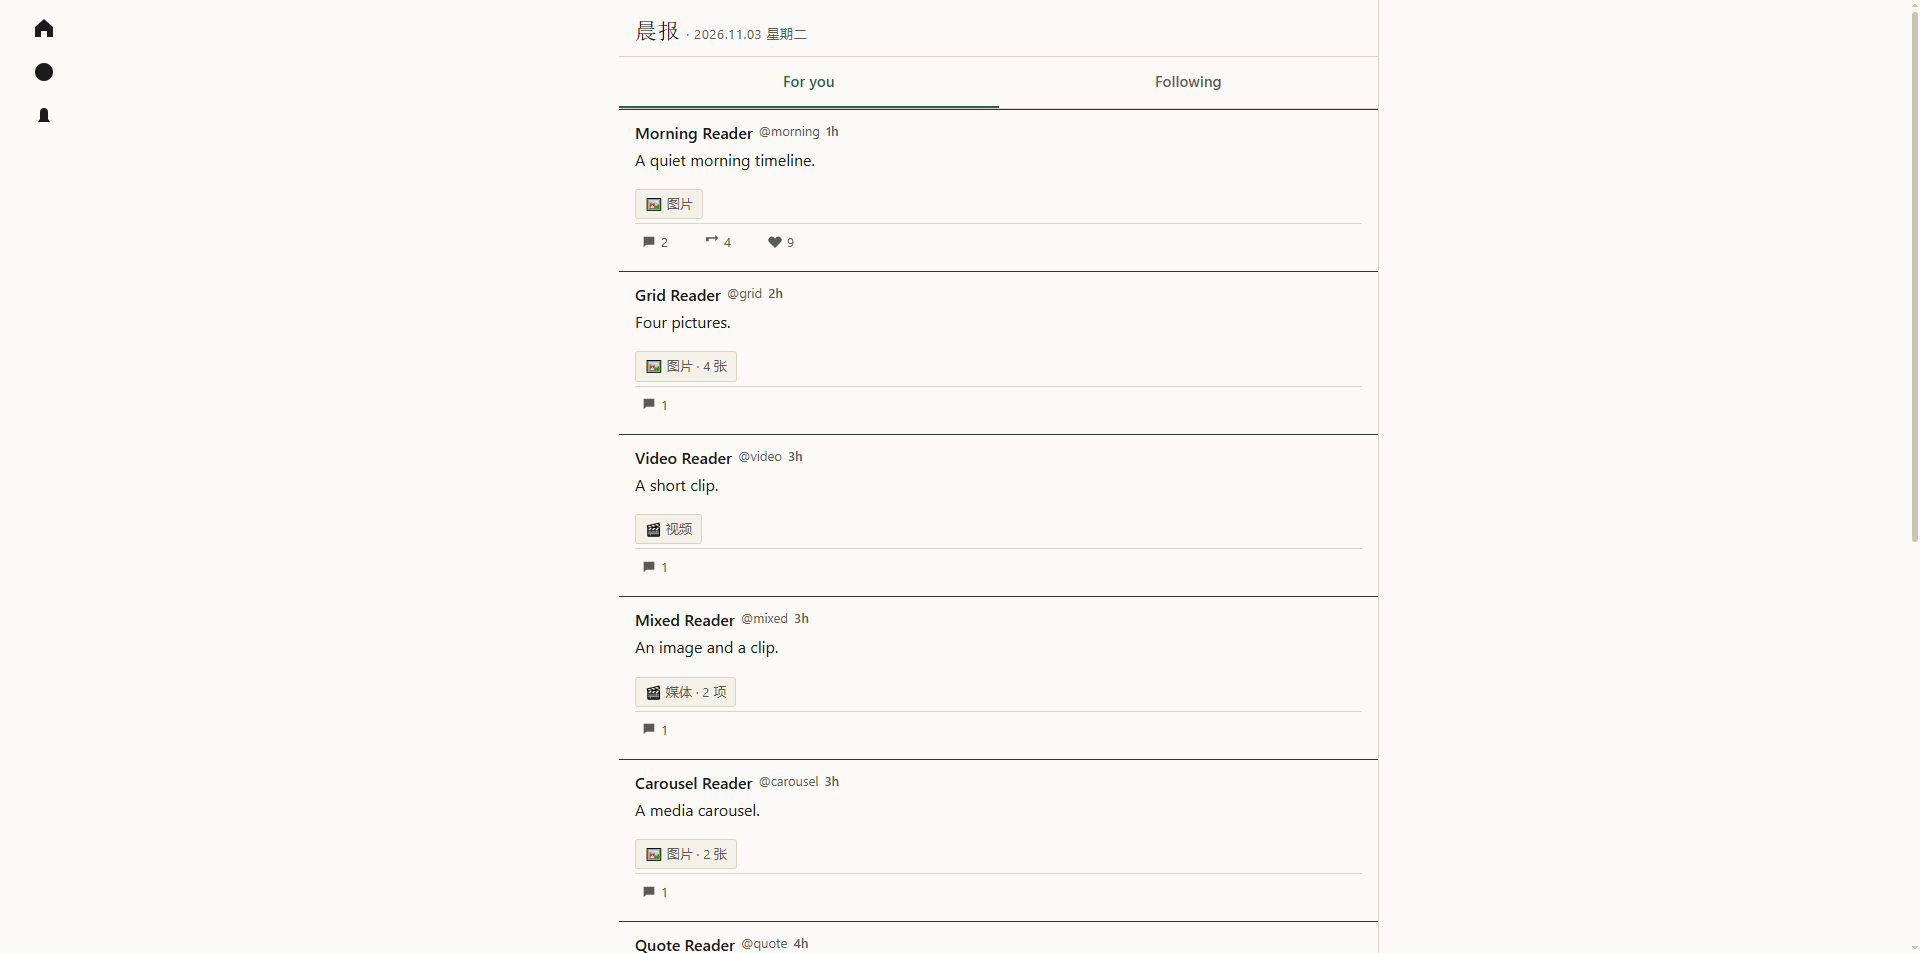
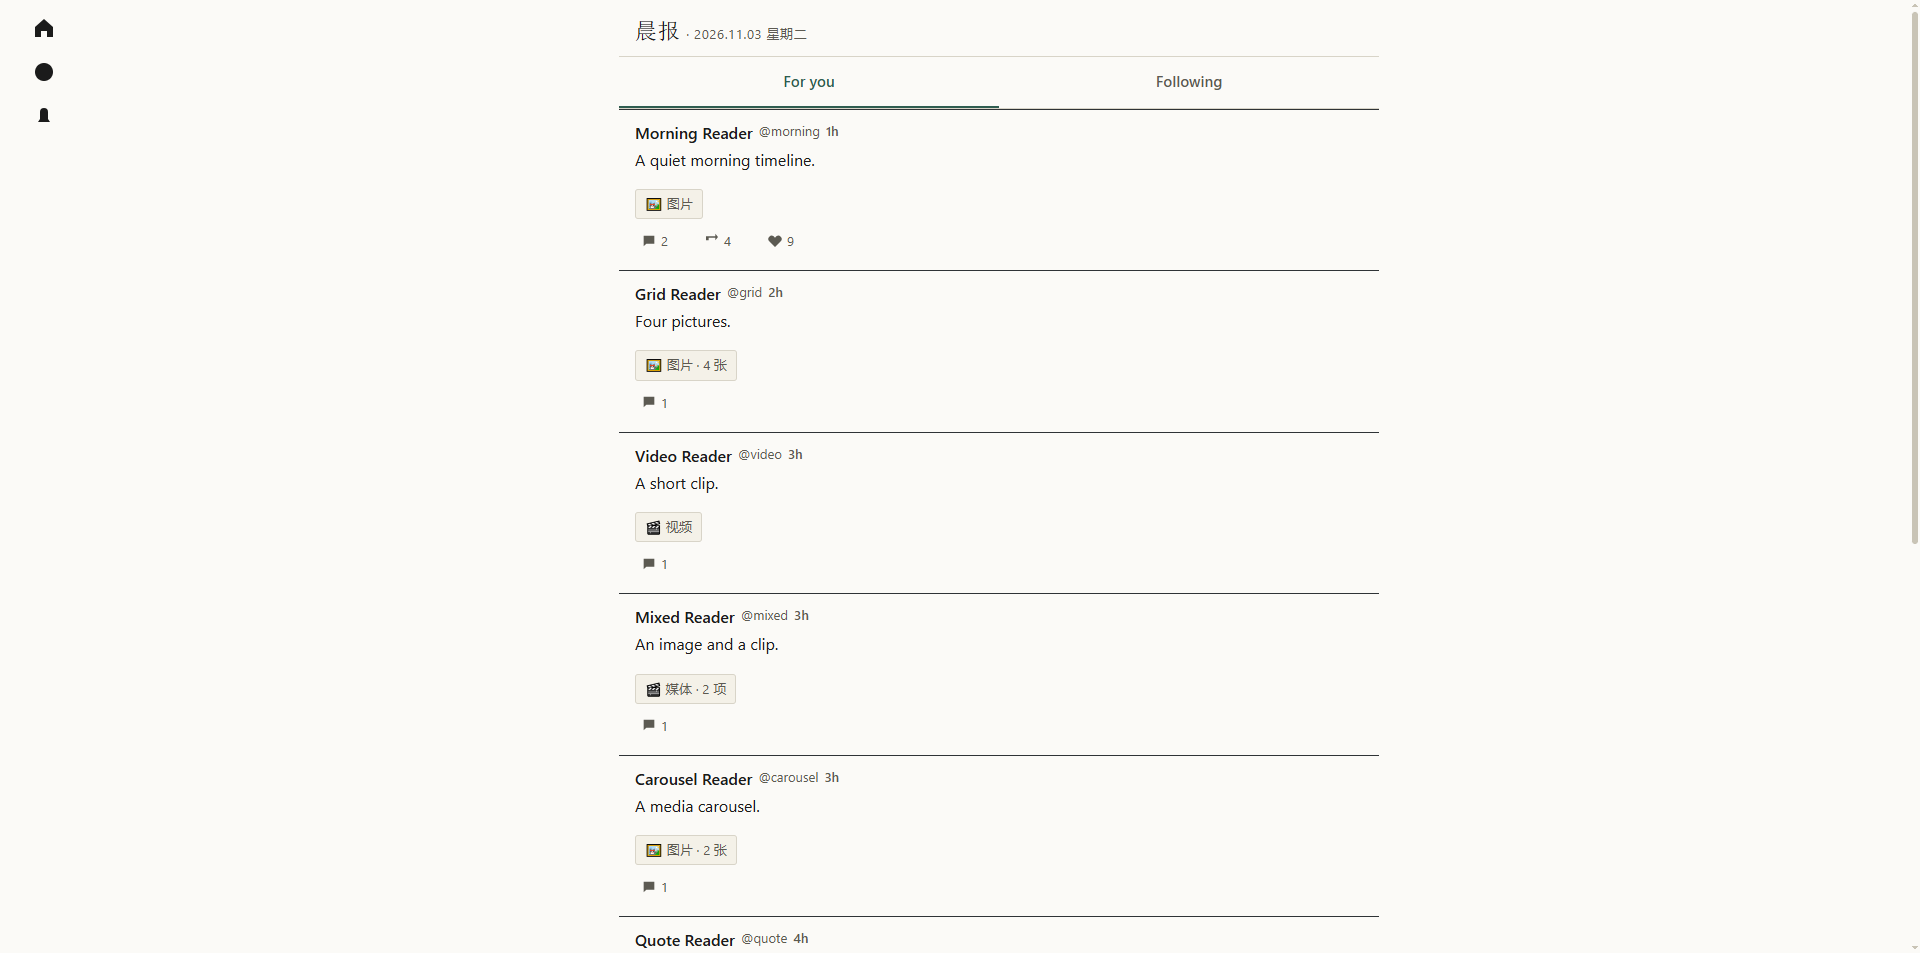
fix: polish timeline chrome, quote media and notifications
- remove column side borders, avatar rings and the action-bar divider
- soften post dividers and thread connector lines to the warm rule color
- fold quoted media and quoted card media; prefer a tweet's own media
- make the new-posts pill compact and recolor toasts to the paper surface

diff --git a/x-morning-paper.user.js b/x-morning-paper.user.js
@@ -37,6 +37,7 @@
       --xmp-ink: #1B1B1B;
       --xmp-ink-secondary: #5C5A52;
       --xmp-hairline: #D8D4C8;
+      --xmp-rule: #E6E1D5;
       --xmp-pine: #2F5D50;
       --xmp-pine-deep: #264C42;
       --xmp-pine-soft: #E6ECE7;
@@ -70,6 +71,19 @@
     html[data-xmp-enabled="1"] [data-testid="sidebarColumn"] {
       background-color: var(--xmp-paper) !important;
       border-color: var(--xmp-hairline) !important;
+    }
+
+    html[data-xmp-enabled="1"] [data-testid="primaryColumn"] {
+      border-left: 0 !important;
+      border-right: 0 !important;
+    }
+
+    html[data-xmp-enabled="1"] [data-testid^="UserAvatar-Container"] div,
+    html[data-xmp-enabled="1"] [data-testid^="UserAvatar-Container"] img,
+    html[data-xmp-enabled="1"] [data-testid="Tweet-User-Avatar"] div,
+    html[data-xmp-enabled="1"] [data-testid="Tweet-User-Avatar"] img {
+      background-color: transparent !important;
+      box-shadow: none !important;
     }
 
     html[data-xmp-enabled="1"] [data-testid="tweetText"],
@@ -122,7 +136,6 @@
 
     html[data-xmp-enabled="1"] [role="group"] {
       color: var(--xmp-ink-secondary) !important;
-      border-top: 1px solid var(--xmp-hairline) !important;
       padding-bottom: 8px !important;
     }
 
@@ -219,14 +232,22 @@
       background-color: var(--xmp-pine) !important;
     }
 
-    [data-xmp-tabbar] [role="status"] button {
+    html[data-xmp-enabled="1"] [role="status"][data-keep-composer-open] button {
       background-color: var(--xmp-pine) !important;
       color: var(--xmp-paper) !important;
+      width: auto !important;
+      min-width: 0 !important;
+      justify-content: center !important;
     }
 
-    [data-xmp-tabbar] [role="status"] button * {
+    html[data-xmp-enabled="1"] [role="status"][data-keep-composer-open] button * {
       color: var(--xmp-paper) !important;
       fill: var(--xmp-paper) !important;
+    }
+
+    html[data-xmp-enabled="1"] [role="status"][data-keep-composer-open] button > div {
+      gap: 6px !important;
+      justify-content: center !important;
     }
 
     [data-xmp-composer] {
@@ -333,8 +354,37 @@
       fill: var(--xmp-ink) !important;
     }
 
+    html[data-xmp-enabled="1"] [data-testid="cellInnerDiv"] > div {
+      border-bottom-color: var(--xmp-rule) !important;
+    }
+
+    html[data-xmp-enabled="1"] [data-testid="cellInnerDiv"] [data-testid="Tweet-User-Avatar"] ~ div:last-child {
+      background-color: var(--xmp-rule) !important;
+      border-radius: 1px !important;
+    }
+
     [data-xmp-divider] {
       background-color: transparent !important;
+    }
+
+    html[data-xmp-enabled="1"] [data-testid="toast"] {
+      background-color: var(--xmp-paper-raised) !important;
+      color: var(--xmp-ink) !important;
+      border: 1px solid var(--xmp-hairline) !important;
+      box-shadow: 0 2px 8px rgba(27, 27, 27, 0.08) !important;
+    }
+
+    html[data-xmp-enabled="1"] [data-testid="toast"] * {
+      color: var(--xmp-ink) !important;
+    }
+
+    html[data-xmp-enabled="1"] [data-testid="toast"] svg {
+      color: var(--xmp-ink) !important;
+      fill: var(--xmp-ink) !important;
+    }
+
+    html[data-xmp-enabled="1"] [data-testid="toast"] a {
+      color: var(--xmp-pine) !important;
     }
 
     html[data-xmp-enabled="1"] [data-xmp-tabbar] [data-testid="ScrollSnap-prevButtonWrapper"] button,
@@ -369,7 +419,7 @@
       border-color: var(--xmp-pine-deep) !important;
     }
 
-    html[data-xmp-enabled="1"] [data-xmp-tabbar] [role="status"] button:hover {
+    html[data-xmp-enabled="1"] [role="status"][data-keep-composer-open] button:hover {
       background-color: var(--xmp-pine-deep) !important;
     }
 
@@ -1101,12 +1151,32 @@
 
   function collectMedia(tweet) {
     return [...tweet.querySelectorAll(MEDIA_SELECTOR)].filter(element => {
-      if (element.closest('[data-testid="card.wrapper"]')) return false;
       if (element.closest(TWEET) !== tweet) return false;
+      if (element.closest('[data-testid="card.wrapper"]') && !isQuoteMedia(tweet, element)) return false;
       if (element.getAttribute('data-testid') === 'tweetPhoto' &&
           element.closest('[data-testid="previewInterstitial"]')) return false;
       return true;
     });
+  }
+
+  function isQuoteMedia(tweet, element) {
+    let node = element.parentElement;
+    while (node && node !== tweet) {
+      if (node.getAttribute('role') === 'link' &&
+          node.querySelector('[data-testid="User-Name"]') &&
+          node.querySelector('[data-testid="tweetText"]')) {
+        return true;
+      }
+      node = node.parentElement;
+    }
+    return false;
+  }
+
+  // Collapse the tweet's own media first. Quoted media is only promoted when
+  // the tweet itself carries no media, so a quote's image can also be folded.
+  function selectMedia(tweet, media) {
+    const own = media.filter(element => !isQuoteMedia(tweet, element));
+    return own.length > 0 ? own : media;
   }
 
   const MEDIA_BLOCK_STOP =
@@ -1114,43 +1184,23 @@
     '[data-testid="tweet"], [role="group"]';
 
   function findMediaBlock(tweet, media) {
-    const mainName = tweet.querySelector('[data-testid="User-Name"]');
-    const accept = block => {
-      if (!block) return null;
-      if (hasForeignAuthor(tweet, block, mainName)) return null;
-      return liftMediaBlock(tweet, block);
-    };
     const carousel = media[0].closest('[data-testid="ScrollSnap-List"]');
     if (carousel && tweet.contains(carousel) &&
         media.every(item => carousel.contains(item)) &&
         !carousel.querySelector('[data-testid="tweetText"]') &&
         !carousel.querySelector('[role="group"]')) {
-      return accept(carousel);
+      return liftMediaBlock(tweet, carousel);
     }
     let candidate = media[0].parentElement;
     while (candidate && candidate !== tweet) {
       if (media.every(item => candidate.contains(item)) &&
           !candidate.querySelector('[data-testid="tweetText"]') &&
           !candidate.querySelector('[role="group"]')) {
-        return accept(candidate);
+        return liftMediaBlock(tweet, candidate);
       }
       candidate = candidate.parentElement;
     }
     return null;
-  }
-
-  // Quote cards render a second author row but their media are not nested in a
-  // second [data-testid="tweet"]. Media whose enclosing block carries an author
-  // row other than this tweet's own belongs to the quote and stays untouched.
-  function hasForeignAuthor(tweet, block, mainName) {
-    let node = block;
-    while (node && node !== tweet) {
-      for (const name of node.querySelectorAll('[data-testid="User-Name"]')) {
-        if (name !== mainName) return true;
-      }
-      node = node.parentElement;
-    }
-    return false;
   }
 
   // The nearest media wrapper often carries no height; the sized figure shell
@@ -1223,7 +1273,7 @@
   }
 
   function annotateTweet(tweet) {
-    const media = collectMedia(tweet);
+    const media = selectMedia(tweet, collectMedia(tweet));
     if (media.length === 0) {
       cleanupTweet(tweet);
       return;
@@ -1261,7 +1311,7 @@
     toggle.className = 'xmp-media-toggle';
     toggle.setAttribute('aria-controls', id);
     toggle.addEventListener('click', () => {
-      const currentMedia = collectMedia(tweet);
+      const currentMedia = selectMedia(tweet, collectMedia(tweet));
       if (currentMedia.length === 0) return;
       const currentInfo = describeMedia(currentMedia);
       const nextState = tweet.dataset.xmpMediaState === 'expanded' ? 'collapsed' : 'expanded';

diff --git a/docs/selectors.md b/docs/selectors.md
@@ -51,8 +51,9 @@
 - 非轮播媒体块是包含全部本次媒体、且不含 `tweetText` 和 `[role="group"]` 的最近祖先。确定后
   继续向上提升到仍只包含媒体的最高祖先；遇到 `tweetText`、作者行、引用帖、卡片、操作组或
   媒体按钮即停止。X 的单图和轮播都会在内层绝对定位层之外保留定高外壳，只隐藏内层会留下空白。
-- 引用帖不嵌套为第二个 `[data-testid="tweet"]`；媒体块或其祖先链上出现非本帖作者的
-  `[data-testid="User-Name"]` 行时，视为引用帖媒体，保留原媒体、不插入按钮。
+- 引用帖媒体不嵌套为第二个 `[data-testid="tweet"]`，媒体收集同时覆盖引用帖内容，包括引用帖
+  内的卡片媒体。帖子有自有媒体时优先折叠自有媒体；只有引用帖媒体时折叠引用帖内的媒体。
+  帖子外层的链接卡片媒体仍排除。
 - 按钮 `button.xmp-media-toggle` 按内容宽度显示（`align-self: flex-start`），带 `aria-expanded`、
   `aria-controls` 和可访问名称；`aria-controls` 指向媒体块 id。媒体块已有 id 时复用它，
   否则生成 `xmp-media-block-<n>`。
@@ -84,8 +85,19 @@
   脚本用 `data-xmp-tabbar`/`data-xmp-composer` 标记并覆盖其子 div/nav 背景。
 - 多图帖子使用 `[data-testid="ScrollSnap-List"]` 滚动轮播；轮播包含全部收集到的媒体时作为
   媒体块，否则退回公共祖先算法，避免只折叠轮播而留下其余媒体。
-- 引用帖不是嵌套的 `[data-testid="tweet"]`，而是包含第二行 `User-Name` 的容器；媒体适配按
-  作者行排除引用帖媒体，否则会折叠引用内容。
+- 引用帖不是嵌套的 `[data-testid="tweet"]`，而是包含 `User-Name` 和 `tweetText` 的
+  `div[role="link"]` 容器；媒体适配用它区分引用帖媒体：有自有媒体时优先自有，只有引用媒体
+  时折叠引用媒体的图片。
+- 帖子分隔线是 `[data-testid="cellInnerDiv"] > div` 的深色 `border-bottom`；主题改为
+  `--xmp-rule` 浅纸色。
+- 详情页线程竖线是 `cellInnerDiv` 内头像列最后一个 div（2×57px、深色背景）；主题用
+  `[data-testid="Tweet-User-Avatar"] ~ div:last-child` 改为同一浅纸色。
+- 头像框来自头像容器内部的黑色底层和 inset 白色 `box-shadow`；主题清空头像后代的背景和阴影。
+- 正文列左右框线是 `primaryColumn` 的 1px `border-left/right`；版面主题将其设为 0。
+- 操作栏上分割线是 `[role="group"]` 的 `border-top`；主题不再绘制。
+- 新帖提示是 `[role="status"][data-keep-composer-open]` 内的按钮；按钮需要 `width: auto`、
+  `gap: 6px`，否则短文案「已发布」会留下大间隔。
+- Toast 是 `[data-testid="toast"]`；原为 X 蓝/绿色块，主题改为纸面浮起色和墨色文字。
 - 左栏 nav 的标签包装层带 20px/16px 水平外边距；只隐藏文字会让图标被外边距拉向左边缘，
   收起时必须同时隐藏标签包装层。
 - 发帖入口 `SideNav_NewTweet_Button` 位于屏幕左侧 275px 容器内，收起为 88px 轨道后会在

diff --git a/README.md b/README.md
@@ -17,11 +17,14 @@
 - 视口 ≥1000px：左轨 88px、右栏隐藏、正文列 680/720/760px 居中、首页日期刊头。
 - 视口 <1000px：只应用浅色主题，保留 X 原生布局和媒体行为。
 - 首页顶层帖子的图片/视频默认折叠为 🖼/🎬 按钮，点击就地展开；多图保持原生网格；
-  X 当前的多图滚动轮播（`ScrollSnap-List`）作为媒体块折叠；引用帖和链接卡片媒体不折叠，
-  引用帖按第二行作者信息识别。
+  X 当前的多图滚动轮播（`ScrollSnap-List`）作为媒体块折叠。帖子有自有媒体时优先折叠自有
+  媒体；只有引用帖媒体时也折叠引用帖内的图片和卡片媒体；帖子外层的链接卡片媒体保持原样。
 - 首页隐藏推广帖、推荐关注和右栏；搜索、通知等页面保留用户列表，只做主题换肤。
-- 操作栏图标 16px、墨色计数、细线分隔；悬停松绿；点赞激活使用暖红，转发和书签激活使用
-  松绿；认证徽章使用松绿，引用卡和分隔线使用细线。
+- 操作栏图标 16px、墨色计数；悬停松绿；点赞激活使用暖红，转发和书签激活使用松绿；
+  操作栏上方不显示分割线。
+- 头像和正文列两侧不显示框线；帖子之间使用浅纸色分隔线，详情页的线程连接竖线使用同一
+  浅纸色；引用卡边框使用细线。
+- 新帖提示按内容宽度收紧；Toast 使用纸面浮起样式，不出现 X 蓝色/绿色大块。
 - 选择器缺失时降级为主题模式：primary 或版面锚点缺失时只应用主题；时间线暂时为空时保留
   刊头和观察器；详情页不显示刊头和媒体按钮。
 - 观察器只观察 primary，150ms 防抖；不添加滚动监听。扫描不依赖 `requestAnimationFrame`，
